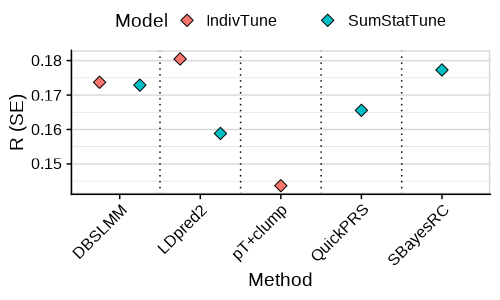
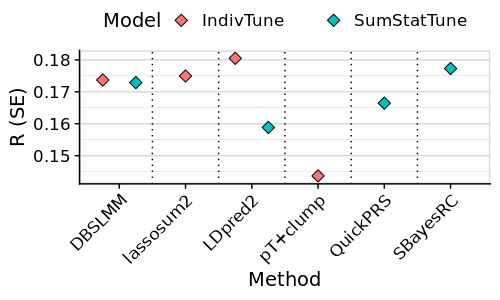
Added lassosum2 docs

diff --git a/docs/pipeline_technical.html b/docs/pipeline_technical.html
@@ -80,6 +80,41 @@ document.getElementById('toggleNightMode').addEventListener('change', function()
   gtag('config', 'G-YR18ZB3PR3');
 </script>
 
+<!-- Osano Cookie Consent -->
+<link rel="stylesheet" href="https://cdn.jsdelivr.net/npm/cookieconsent@3/build/cookieconsent.min.css" />
+<script src="https://cdn.jsdelivr.net/npm/cookieconsent@3/build/cookieconsent.min.js"></script>
+<script>
+window.addEventListener("load", function(){
+  window.cookieconsent.initialise({
+    palette: {
+      popup: { background: "#000" },
+      button: { background: "#f1d600" }
+    },
+    theme: "classic",
+    position: "bottom-right",
+    content: {
+      message: "We use a cookie for Google Analytics to understand how people use this site. This helps us improve GenoPred and demonstrate its impact. Please click 'Accept' to help us with this.",
+      dismiss: "Accept",
+      link: "Google's privacy info",
+      href: "https://policies.google.com/technologies/partner-sites"
+    },
+    onStatusChange: function(status) {
+      if (status === 'allow') {
+        // Now load Google Analytics only if user consents
+        var gtagScript = document.createElement('script');
+        gtagScript.setAttribute('async', '');
+        gtagScript.src = 'https://www.googletagmanager.com/gtag/js?id=G-YR18ZB3PR3';
+        document.head.appendChild(gtagScript);
+
+        window.dataLayer = window.dataLayer || [];
+        function gtag(){ dataLayer.push(arguments); }
+        gtag('js', new Date());
+        gtag('config', 'G-YR18ZB3PR3');
+      }
+    }
+  });
+});
+</script>
 
 <style type="text/css">
   code{white-space: pre-wrap;}
@@ -440,23 +475,31 @@ The GenoPred pipeline automates the process of calculating polygenic
 scores. The pipeline aims to implement the current practises for
 polygenic scoring. See <a href="pipeline_overview.html">here</a> more
 general information regarding the GenoPred pipeline.</p>
-<p>Please cite our preprint when using the pipeline:</p>
+<p>Please cite our publication when using the pipeline:</p>
 <ul>
 <li>“Pain, O. et al. ”The GenoPred Pipeline: A Comprehensive and
-Scalable Pipeline for Polygenic Scoring.” MedRxiv 2024. <a
-href="https://doi.org/10.1101/2024.06.12.24308843"
-class="uri">https://doi.org/10.1101/2024.06.12.24308843</a></li>
+Scalable Pipeline for Polygenic Scoring.” Bioinformatics (2024). <a
+href="https://doi.org/10.1093/bioinformatics/btae551"
+class="uri">https://doi.org/10.1093/bioinformatics/btae551</a></li>
+</ul>
+<p>If using multi-source PGS methods, please also cite our study
+describing their evaluation and implementation within GenoPred:</p>
+<ul>
+<li>“Pain, O.”Leveraging Global Genetics Resources to Enhance Polygenic
+Prediction Across Ancestrally Diverse Populations.” MedRxiv (2026). <a
+href="https://doi.org/10.1101/2025.03.27.25324773"
+class="uri">https://doi.org/10.1101/2025.03.27.25324773</a></li>
 </ul>
 <p>If relevant, please also cite our paper comparing polygenic scoring
 methods and describing the reference-standardised approach:</p>
 <ul>
 <li>Pain, O. et al. “Evaluation of polygenic prediction methodology
-within a reference-standardized framework.” PLoS genetics. <a
+within a reference-standardized framework.” PLoS genetics (2024). <a
 href="https://doi.org/10.1371/journal.pgen.1009021"
 class="uri">https://doi.org/10.1371/journal.pgen.1009021</a></li>
 </ul>
-<p>Please also cite the relevant studies for the tools and data used by
-the GenoPred pipeline.</p>
+<p>Please also remember to cite the relevant studies for the tools and
+data used by the GenoPred pipeline.</p>
 <hr />
 </div>
 <div id="software" class="section level1">
@@ -486,7 +529,7 @@ for more information on pipeline configuration.</p>
 <div class="centered-container">
 <div class="rounded-image-container">
 <div class="figure">
-<img src="Images/pipeline_readme/pipeline_schematic_lowdef.png"
+<img src="Images/pipeline_readme/pipeline_schematic_groups_lowdef.png"
 alt="" />
 <p class="caption">Figure 1. GenoPred pipeline schematic. Shows input
 files, processes, outputs, and rules.</p>
@@ -713,6 +756,35 @@ Population-matched 1KG+HGDP
 </tr>
 <tr>
 <td style="text-align:left;">
+lassosum2
+</td>
+<td style="text-align:left;">
+bigsnpr R package
+</td>
+<td style="text-align:left;">
+36105883
+</td>
+<td style="text-align:left;">
+No
+</td>
+<td style="text-align:left;">
+delta = 0.001, 0.01, 0.1, 1; nlambda = 30; lambda.min.ratio = 0.01
+</td>
+<td style="text-align:left;">
+Not excluded
+</td>
+<td style="text-align:left;">
+EUR UKB (LDpred2-provided)
+</td>
+<td style="text-align:left;">
+NA but it is quick
+</td>
+<td style="text-align:left;">
+NA but ~500Mb
+</td>
+</tr>
+<tr>
+<td style="text-align:left;">
 LDpred2
 </td>
 <td style="text-align:left;">
@@ -899,6 +971,28 @@ range of lambda values, and the 1KG+HGDP reference for LD estimation,
 matching the population of the GWAS sample. LD block data for EUR, EAS
 and AFR are provided by lassosum - If the GWAS are from CSA, AMR, MID
 populations, EUR LD block data is used.</p>
+<hr />
+</div>
+<div id="lassosum2" class="section level4">
+<h4>lassosum2</h4>
+<p>lassosum2 is an updated version of the original lassosum method and
+is implemented in the bigsnpr R package. It performs penalised
+regression on GWAS summary statistics using an elastic net–like
+approach, balancing L1 and L2 penalties through a grid of
+hyperparameters: the shrinkage parameter lambda and the sparsity
+parameter delta. Lassosum2 can be run efficiently on sparse LD matrices
+derived from reference data, and is particularly suited for traits where
+variable selection may be beneficial. In GenoPred, lassosum2 is run
+using the script <a
+href="https://github.com/opain/GenoPred/blob/master/Scripts/pgs_methods/lassosum2.R">pgs_methods/lassosum2.R</a>.
+GenoPred uses bigsnpr v1.12.2 with the default grid of lambda and delta
+values, and performs GWAS quality control as recommended by the authors.
+LD matrices used by lassosum2 are precomputed from European individuals
+in the UK Biobank and applied only to GWAS based on a EUR population.
+Alternative LD reference panels can be specified for other populations
+(<a
+href="pipeline_readme.html#specifying-alternative-reference-data-for-pgs-methods">see
+here</a>).</p>
 <hr />
 </div>
 <div id="ldpred2" class="section level4">

diff --git a/docs/pipeline_readme.html b/docs/pipeline_readme.html
@@ -570,44 +570,15 @@ href="#dont-run-on-the-login-node">here</a>).</p>
 </div>
 <div id="step-2-create-conda-environment-for-pipeline"
 class="section level2">
-<<<<<<< HEAD
-<h2>Step 2: Create software environment for pipeline</h2>
-<p>Conda is a software environment management system that simplifies
-installing and managing dependencies. We recommend using Miniforge — a
-minimal conda installer that comes with Mamba, a fast drop-in
-replacement for conda.</p>
-<p>If you don’t already have Miniforge installed, you can install it
-using the commands below:</p>
-<pre class="bash"><code># Download and install Miniforge (for Linux)
-wget https://github.com/conda-forge/miniforge/releases/download/24.11.3-0/Miniforge3-24.11.3-0-Linux-x86_64.sh
-bash Miniforge3-24.11.3-0-Linux-x86_64.sh</code></pre>
-<p>Accept the default installation options. Once installed, you may need
-to run source ~/.bashrc or restart your terminal. You should see (base)
-appear at the beginning of your terminal prompt.</p>
-<p>Now, create the GenoPred environment using Mamba:</p>
-<pre class="bash"><code>mamba env create -f GenoPred/pipeline/envs/pipeline.yaml</code></pre>
-<p>Activate the new <code>genopred</code> environment:</p>
-<pre class="bash"><code>mamba activate genopred</code></pre>
-<div class="note-box">
-<p><strong>Note:</strong> If you are working on an HPC, check whether
-mamba is an available module. Using the centrally installed version of
-mamba may avoid issues down the road.</p>
-</div>
-=======
 <h2>Step 2: Create conda environment for pipeline</h2>
 <p>Conda is a software environment management system which is great way
 for easily downloading and storing software. We will use conda to create
 an environment that the GenoPred pipeline will run in.</p>
 <p>If you don’t already have conda installed, we will install it using
 miniconda.</p>
-<<<<<<< Updated upstream
-<pre class="bash"><code>wget https://repo.anaconda.com/miniconda/Miniconda3-latest-Linux-x86_64.sh
-sh Miniconda3-latest-Linux-x86_64.sh</code></pre>
-=======
 <pre class="bash"><code># Download and install Miniforge (for Linux)
 wget https://github.com/conda-forge/miniforge/releases/download/24.11.3-0/Miniforge3-24.11.3-0-Linux-x86_64.sh
 bash Miniforge3-24.11.3-0-Linux-x86_64.sh</code></pre>
->>>>>>> Stashed changes
 <p>I would say <code>yes</code> to the default options. You may then
 need to refresh your workspace to initiate conda, by running
 <code>source ~/.bashrc</code>. You should see <code>(base)</code>
@@ -618,16 +589,9 @@ is complete, you can then delete the
 <code>GenoPred/pipeline/envs/pipeline.yaml</code> file. This will create
 an environment called <code>genopred</code> with some essential packages
 installed.</p>
-<<<<<<< Updated upstream
-<pre class="bash"><code>conda env create -f GenoPred/pipeline/envs/pipeline.yaml</code></pre>
-<p>Now activate the new <code>genopred</code> environment.</p>
-<pre class="bash"><code>conda activate genopred</code></pre>
-=======
 <pre class="bash"><code>mamba env create -f GenoPred/pipeline/envs/pipeline.yaml</code></pre>
 <p>Now activate the new <code>genopred</code> environment.</p>
 <pre class="bash"><code>mamba activate genopred</code></pre>
->>>>>>> Stashed changes
->>>>>>> 999a324 (Updated docs)
 <hr />
 </div>
 <div id="step-3-download-dependencies" class="section level2">
@@ -743,9 +707,9 @@ View configfile parameters
 <table>
 <colgroup>
 <col width="4%" />
-<col width="19%" />
-<col width="11%" />
-<col width="63%" />
+<col width="18%" />
+<col width="10%" />
+<col width="67%" />
 </colgroup>
 <thead>
 <tr class="header">
@@ -808,9 +772,10 @@ datasets</td>
 <td align="left"><code>['ptclump','dbslmm']</code></td>
 <td align="left">Options are: <code>ptclump</code>, <code>dbslmm</code>,
 <code>prscs</code>, <code>sbayesr</code>, <code>lassosum</code>,
-<code>ldpred2</code>, <code>megaprs</code>. <strong>Note.</strong>
-<code>sbayesr</code> and <code>ldpred2</code> are only implemented for
-GWAS of EUR ancestry.</td>
+<code>lassosum2</code>, <code>ldpred2</code>, <code>megaprs</code>.
+<strong>Note.</strong> By default, <code>sbayesr</code>,
+<code>lassosum2</code>, and <code>ldpred2</code> are only implemented
+for GWAS of EUR ancestry.</td>
 </tr>
 <tr class="even">
 <td align="left"><code>testing</code></td>
@@ -1132,7 +1097,7 @@ target_list: example_input/target_list.txt
 # Specify location of score_list file
 score_list: example_input/score_list.txt
 
-# Specify pgs_methods (&#39;ptclump&#39;,&#39;dbslmm&#39;,&#39;prscs&#39;,&#39;sbayesr&#39;,&#39;lassosum&#39;,&#39;ldpred2&#39;,&#39;megaprs&#39;)
+# Specify pgs_methods
 pgs_methods: [&#39;ptclump&#39;,&#39;dbslmm&#39;]
 
 # Specify if you want test mode. Set to NA if you don&#39;t want test mode
@@ -1576,7 +1541,7 @@ schematic diagram illustrating the inputs, outputs and processes of the
 GenoPred pipeline.</p>
 <div class="centered-container">
 <div class="rounded-image-container">
-<p><img src="Images/pipeline_readme/pipeline_schematic_lowdef.png"></p>
+<p><img src="Images/pipeline_readme/pipeline_schematic_groups_lowdef.png"></p>
 </div>
 </div>
 <div class="note-box">
@@ -2329,7 +2294,7 @@ gwas_groups: example_input/gwas_groups.multisource.txt
 # Specify location of target_list file
 target_list: example_input/target_list.txt
 
-# Specify pgs_methods (&#39;ptclump&#39;,&#39;dbslmm&#39;,&#39;prscs&#39;,&#39;sbayesr&#39;,&#39;lassosum&#39;,&#39;ldpred2&#39;,&#39;megaprs&#39;)
+# Specify pgs_methods
 pgs_methods: [&#39;lassosum&#39;]
 
 # Specify methods for which PGS should be combined using LEOPARD+QuickPRS
@@ -2523,7 +2488,8 @@ reference files.</p>
 <ul>
 <li><code>sbayesr_ldref</code>: for <strong>SBayesR</strong></li>
 <li><code>sbayesrc_ldref</code>: for <strong>SBayesRC</strong></li>
-<li><code>ldpred2_ldref</code>: for <strong>LDpred2</strong></li>
+<li><code>ldpred2_ldref</code>: for <strong>LDpred2</strong> and
+<strong>lassosum2</strong></li>
 <li><code>quickprs_ref</code>: for <strong>QuickPRS</strong></li>
 <li><code>quickprs_multi_ldref</code>: for
 <strong>LEOPARD+QuickPRS</strong></li>

diff --git a/docs/CrossPop.html b/docs/CrossPop.html
@@ -439,6 +439,9 @@ div.tocify {
     <li>
       <a href="Absolute_Conversion.html">Translating Polygenic Scores onto the Absolute Scale</a>
     </li>
+    <li>
+      <a href="CrossPop_summary.html">Cross-Ancestry Polygenic Prediction</a>
+    </li>
   </ul>
 </li>
 <li>
@@ -11383,6 +11386,10 @@ meta-analyses, which can lead to greater mispecification in the
 sumstats, which can impact the performance of some PGS methods. This is
 to provide more confidence in the performance of SBayesRC and QuickPRS
 relative to other methods.</p>
+<div class="note-box">
+<p><strong>Note</strong>: I am using this opportunity to evaluate
+lassosum2, which is not included in other analyses in this project.</p>
+</div>
 <hr />
 <div id="pgs-calculation-4" class="section level3">
 <h3>PGS calculation</h3>
@@ -11423,7 +11430,7 @@ config&lt;-c(
   &quot;config_file: /users/k1806347/oliverpainfel/Data/ukb/GenoPred/configs/crosspop/config_meta.yaml&quot;,
   &quot;gwas_list: /users/k1806347/oliverpainfel/Data/ukb/GenoPred/configs/crosspop/gwas_list_meta.txt&quot;,
   &quot;target_list: /users/k1806347/oliverpainfel/Data/ukb/GenoPred/configs/basic/target_list.txt&quot;,
-  &quot;pgs_methods: [&#39;quickprs&#39;,&#39;sbayesrc&#39;,&#39;ldpred2&#39;,&#39;ptclump&#39;,&#39;dbslmm&#39;]&quot;,
+  &quot;pgs_methods: [&#39;quickprs&#39;,&#39;sbayesrc&#39;,&#39;ldpred2&#39;,&#39;ptclump&#39;,&#39;dbslmm&#39;,&#39;lassosum2&#39;]&quot;,
 #  &quot;pgs_methods: [&#39;ptclump&#39;,&#39;quickprs&#39;,&#39;dbslmm&#39;,&#39;lassosum&#39;,&#39;megaprs&#39;,&#39;prscs&#39;,&#39;ldpred2&#39;,&#39;sbayesrc&#39;]&quot;,
   &quot;cores_prep_pgs: 10&quot;,
   &quot;cores_target_pgs: 50&quot;,
@@ -11689,7 +11696,7 @@ for(pheno_i in phenos){
   
   # Remove pseudo model for methods that don&#39;t really have one 
   eval_i &lt;- eval_i[
-    !(eval_i$Method %in%  c(&#39;ptclump&#39;) &amp; 
+    !(eval_i$Method %in%  c(&#39;ptclump&#39;,&#39;lassosum2&#39;) &amp; 
       eval_i$Model %in% c(&#39;SumStatTune&#39;)),]
   
   res_eval[[pheno_i]]&lt;-eval_i
@@ -11697,7 +11704,7 @@ for(pheno_i in phenos){
 }
 
 # Create vector defining or of methods in plots
-model_order &lt;- c(&quot;DBSLMM&quot;, &quot;lassosum&quot;, &quot;LDpred2&quot;, &quot;MegaPRS&quot;, &quot;PRS-CS&quot;, &quot;pT+clump&quot;, &quot;QuickPRS&quot;, &quot;SBayesRC&quot;) 
+model_order &lt;- c(&quot;DBSLMM&quot;, &quot;lassosum&quot;,&#39;lassosum2&#39;, &quot;LDpred2&quot;, &quot;MegaPRS&quot;, &quot;PRS-CS&quot;, &quot;pT+clump&quot;, &quot;QuickPRS&quot;, &quot;SBayesRC&quot;) 
 
 res_eval_simp &lt;- NULL
 for(pheno_i in phenos){
@@ -11714,6 +11721,7 @@ for(pheno_i in phenos){
 # Plot results for each phenotype separately
 dir.create(&#39;~/oliverpainfel/Analyses/crosspop/plots_meta&#39;)
 
+png(paste0(&#39;~/oliverpainfel/Analyses/crosspop/plots_meta/trait_r.png&#39;), res=100, width = 1200, height = 900, units = &#39;px&#39;)
 ggplot(res_eval_simp, aes(x=label, y=R , fill = Model)) +
     geom_errorbar(aes(ymin = R - SE, ymax = R + SE),
                   width = 0,
@@ -11729,6 +11737,7 @@ ggplot(res_eval_simp, aes(x=label, y=R , fill = Model)) +
           legend.position = &quot;top&quot;,
           legend.key.spacing.x = unit(1, &quot;cm&quot;),
           legend.justification = &quot;center&quot;)
+dev.off()
 
 ####
 # Average results across phenotypes
@@ -11810,11 +11819,21 @@ dev.off()
 </details>
 <details>
 <summary>
-Show results
+Show average results
 </summary>
 <div class="centered-container">
 <div class="rounded-image-container" style="width: 50%;">
 <p><img src="Images/CrossPop_2025/average_r_meta.png"></p>
+</div>
+</div>
+</details>
+<details>
+<summary>
+Show trait-specific results
+</summary>
+<div class="centered-container">
+<div class="rounded-image-container" style="width: 100%;">
+<p><img src="Images/CrossPop_2025/trait_r_meta.png"></p>
 </div>
 </div>
 </details>
